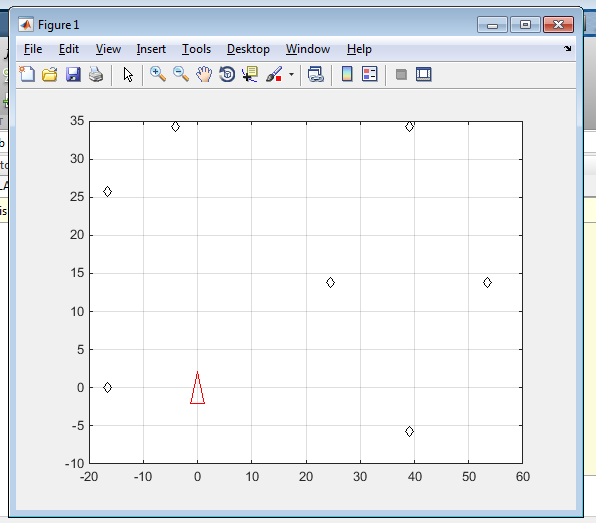
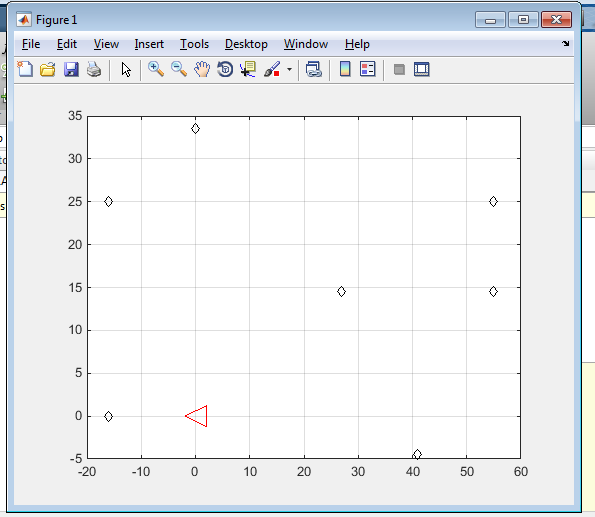
Change to MATLAB and added README

diff --git a/Assignment 4/code/matlab/SLAM.m b/Assignment 4/code/matlab/SLAM.m
@@ -3,20 +3,18 @@
 path(path, 'aprilTag');
 
 % Specify the locations of the April tags in the Map
-A =  [-25.5, -8.25;
-      -25.5, 17.5;
-      -13, 26;
-      30, 26;
-      30, -14;
-      15.5, 5.5;
-      44.5, 5.5];
-A(:, 1) = A(:, 1) + 9; %robot x
-A(:, 2) = A(:, 2) + 8.25; %robot y
+A =  [-16, 0;
+      -16, 25;
+      0, 33.5;
+      55, 25;
+      55, 14.5;
+      27, 14.5;
+      41, -4.5;]
 %% and a robot with noisy odometry
 
 V=diag([0.1, 1.1*pi/180].^2);
 veh=GenericVehicle(V,'dt',0.1);
-veh.x0 = [0,0, pi/2];
+veh.x0 = [0,0, pi];
 veh.add_driver(DeterministicPath('log-1423547652.txt'));
 
 % Creating the map. It places landmarks according to 'A' matrix.
